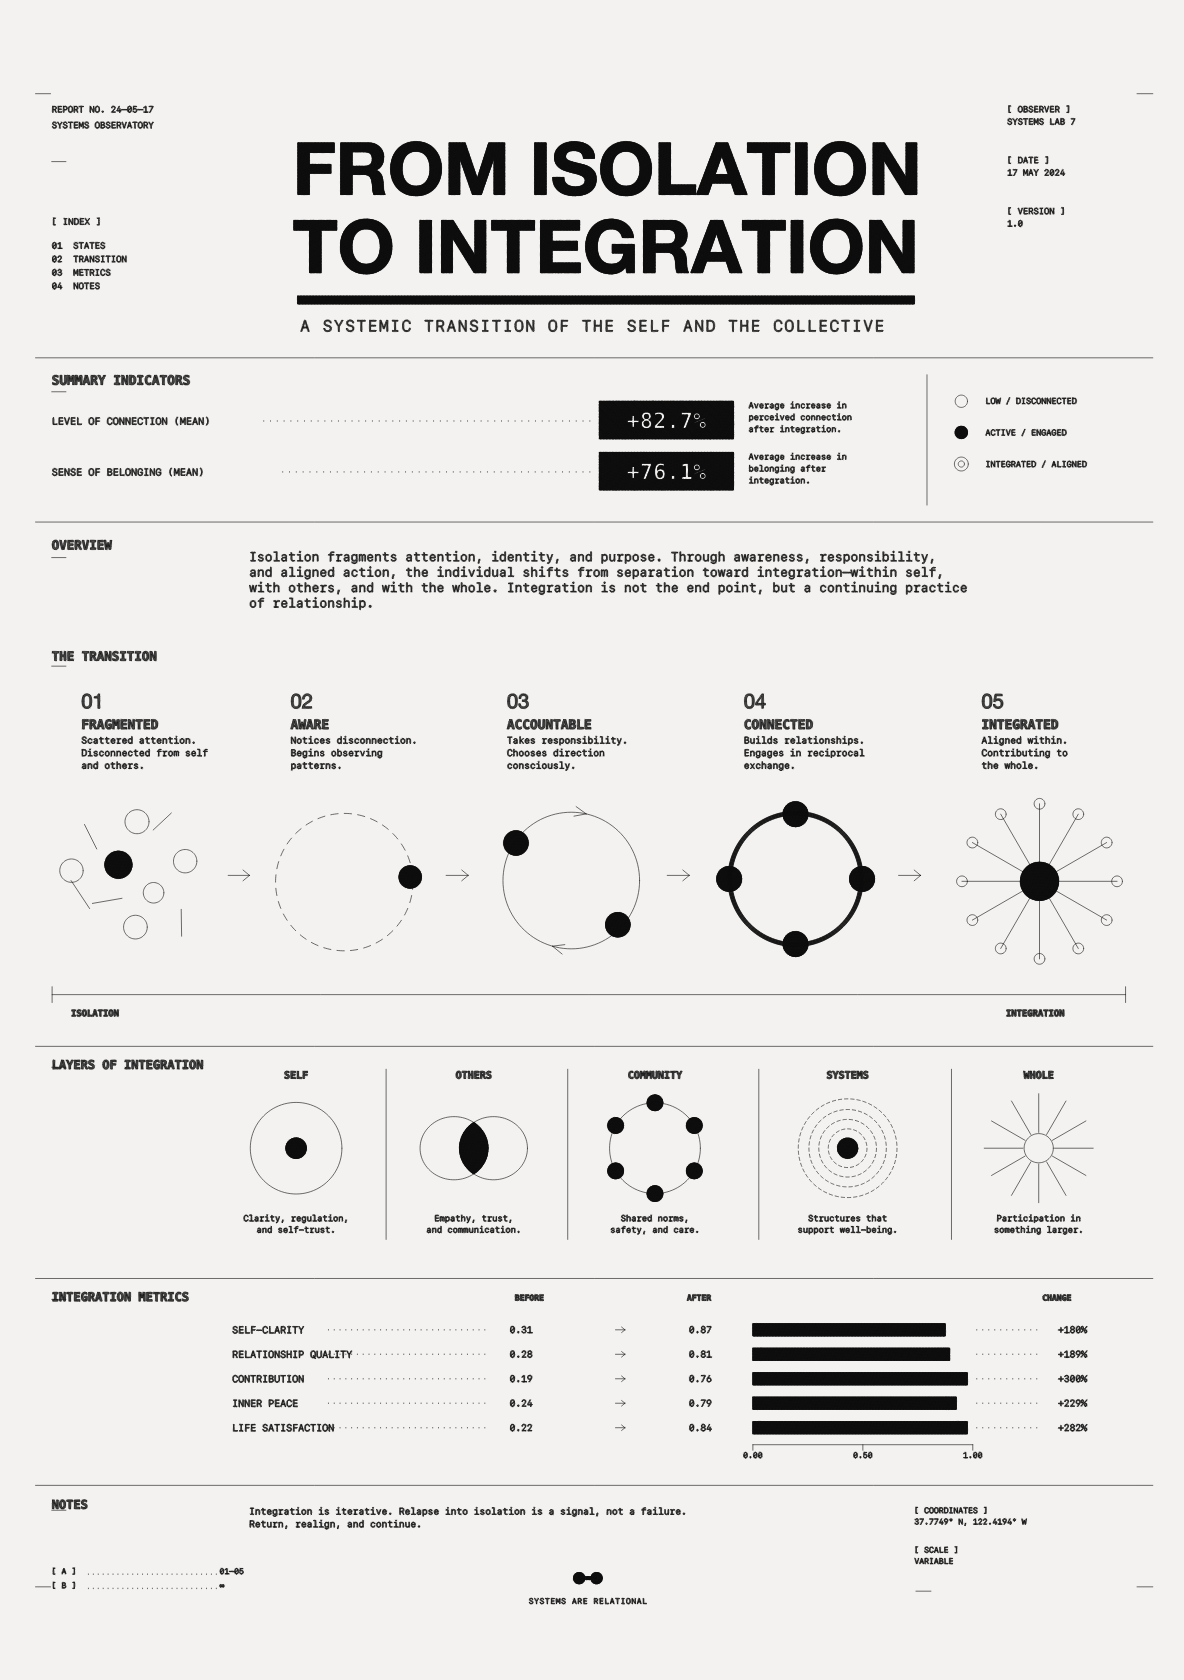
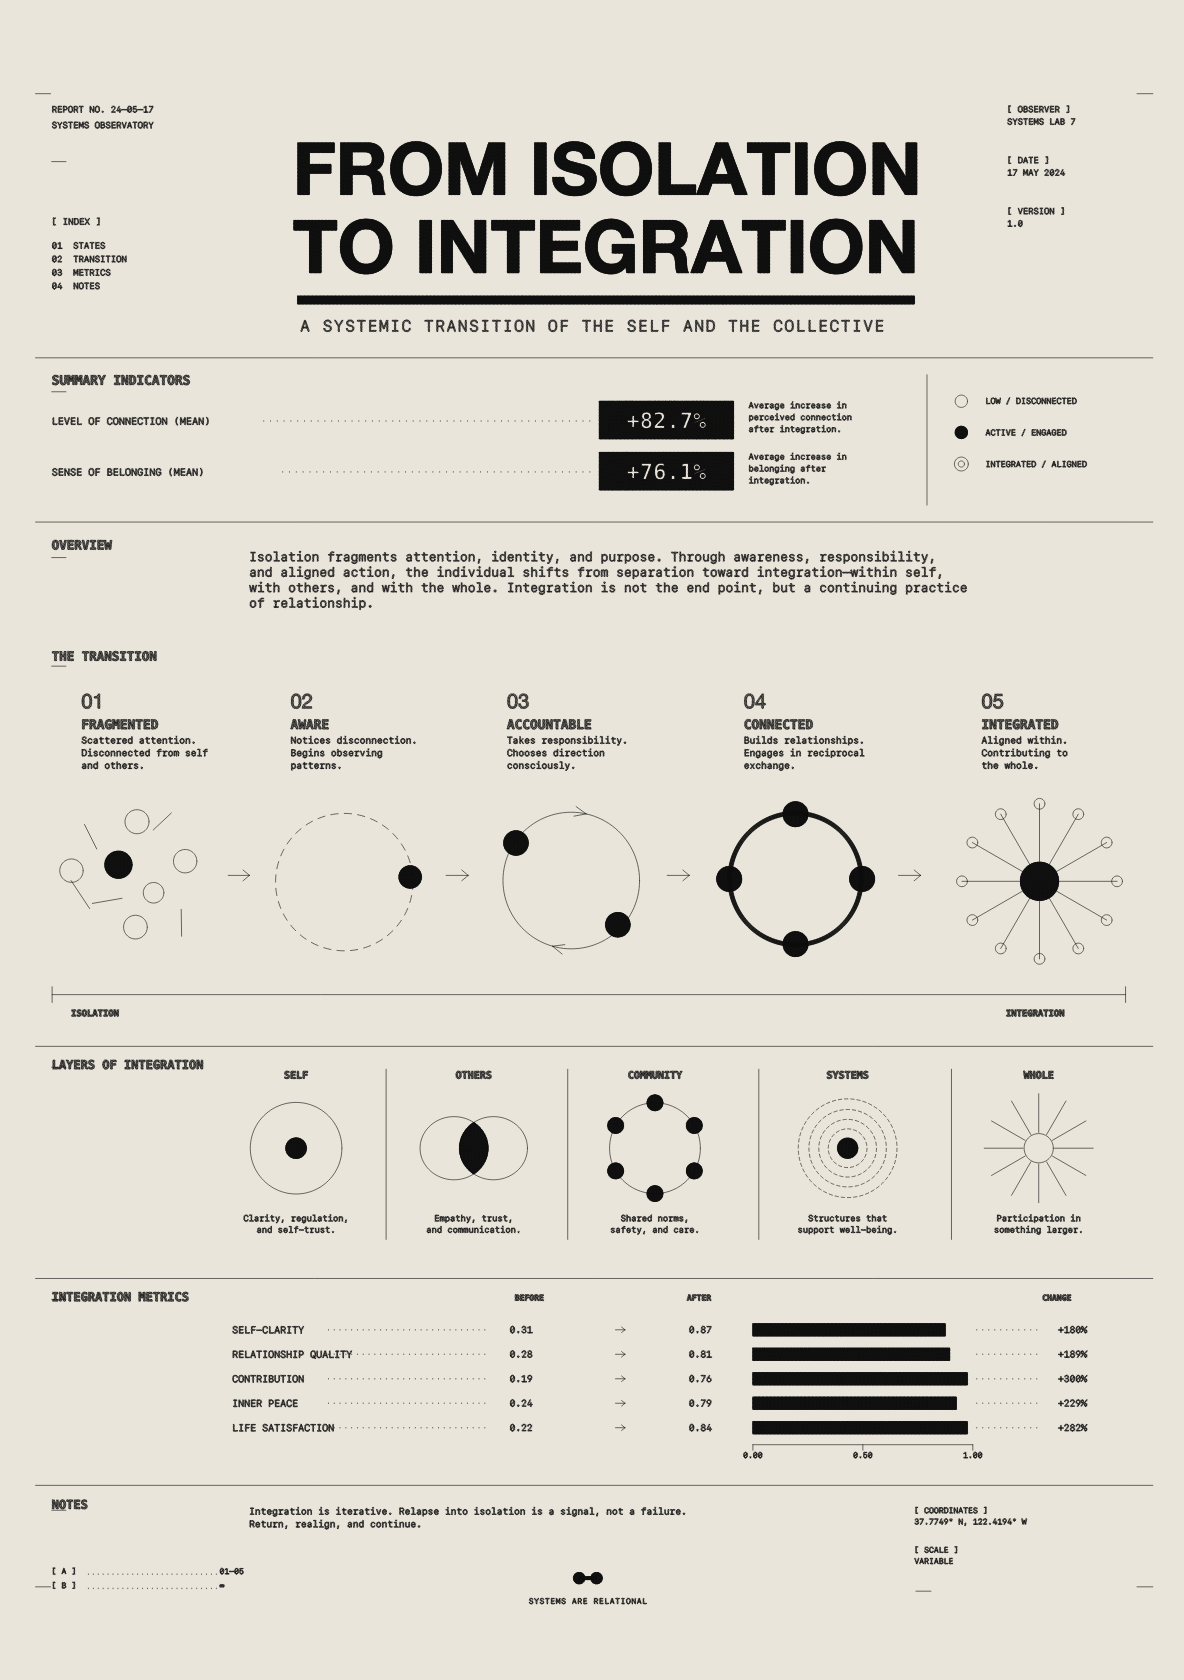
📝

diff --git a/sketch/agent_art/accelerating_metaverse_journal_20260812.py b/sketch/agent_art/accelerating_metaverse_journal_20260812.py
@@ -10,7 +10,7 @@ from grafix import A4, E, G, L, primitive, run
 # Reference-reproduction adjustment block.  The photographed page is already
 # A5-proportioned; the surrounding phone viewer is intentionally excluded.
 CANVAS_SIZE = A4
-BACKGROUND_COLOR = (252 / 255, 250 / 255, 246 / 255)
+BACKGROUND_COLOR = (233 / 255, 229 / 255, 218 / 255)
 LINE_THICKNESS = 0.001
 SEED = 120826
 LINE_COLORS = {"ink": (35 / 255, 30 / 255, 31 / 255)}

diff --git a/sketch/agent_art/isolation_integration_report_20260810.py b/sketch/agent_art/isolation_integration_report_20260810.py
@@ -12,7 +12,7 @@ from grafix import E, G, L, primitive, run
 # than being stretched.  Crop is deliberately zero so every registration mark
 # in the source remains visible.
 CANVAS_SIZE = (148, 210)
-BACKGROUND_COLOR = (243 / 255, 242 / 255, 240 / 255)
+BACKGROUND_COLOR = (233 / 255, 229 / 255, 218 / 255)
 LINE_THICKNESS = 0.001
 SEED = 240517
 LINE_COLORS = {"ink": (8 / 255, 8 / 255, 8 / 255)}

diff --git a/README.md b/README.md
@@ -171,9 +171,9 @@ of the Python `SQUARE` constant.
     <td><a href="https://github.com/tyhts0829/grafix/blob/main/sketch/readme/grn/18.py"><img src="https://raw.githubusercontent.com/tyhts0829/grafix/main/docs/readme/grn/18.png" width="280" alt="Lissajous texture study" /></a></td>
   </tr>
   <tr>
-    <td><a href="https://github.com/tyhts0829/grafix/blob/main/sketch/agent_art/accelerating_metaverse_journal_20260812.py"><img src="https://raw.githubusercontent.com/tyhts0829/grafix/main/docs/readme/agent_art/accelerating_metaverse_journal_20260812.png" width="280" alt="Accelerating Metaverse Journal" /></a></td>
-    <td><a href="https://github.com/tyhts0829/grafix/blob/main/sketch/agent_art/information_infrastructure_manual_20260810.py"><img src="https://raw.githubusercontent.com/tyhts0829/grafix/main/docs/readme/agent_art/information_infrastructure_manual_20260810.png" width="280" alt="Information Infrastructure Manual" /></a></td>
-    <td><a href="https://github.com/tyhts0829/grafix/blob/main/sketch/agent_art/isolation_integration_report_20260810.py"><img src="https://raw.githubusercontent.com/tyhts0829/grafix/main/docs/readme/agent_art/isolation_integration_report_20260810.png" width="280" alt="Isolation Integration Report" /></a></td>
+    <td><a href="sketch/agent_art/accelerating_metaverse_journal_20260812.py"><img src="docs/readme/agent_art/accelerating_metaverse_journal_20260812.png" width="280" alt="Accelerating Metaverse Journal" /></a></td>
+    <td><a href="sketch/agent_art/information_infrastructure_manual_20260810.py"><img src="docs/readme/agent_art/information_infrastructure_manual_20260810.png" width="280" alt="Information Infrastructure Manual" /></a></td>
+    <td><a href="sketch/agent_art/isolation_integration_report_20260810.py"><img src="docs/readme/agent_art/isolation_integration_report_20260810.png" width="280" alt="Isolation Integration Report" /></a></td>
   </tr>
 </table>
 
